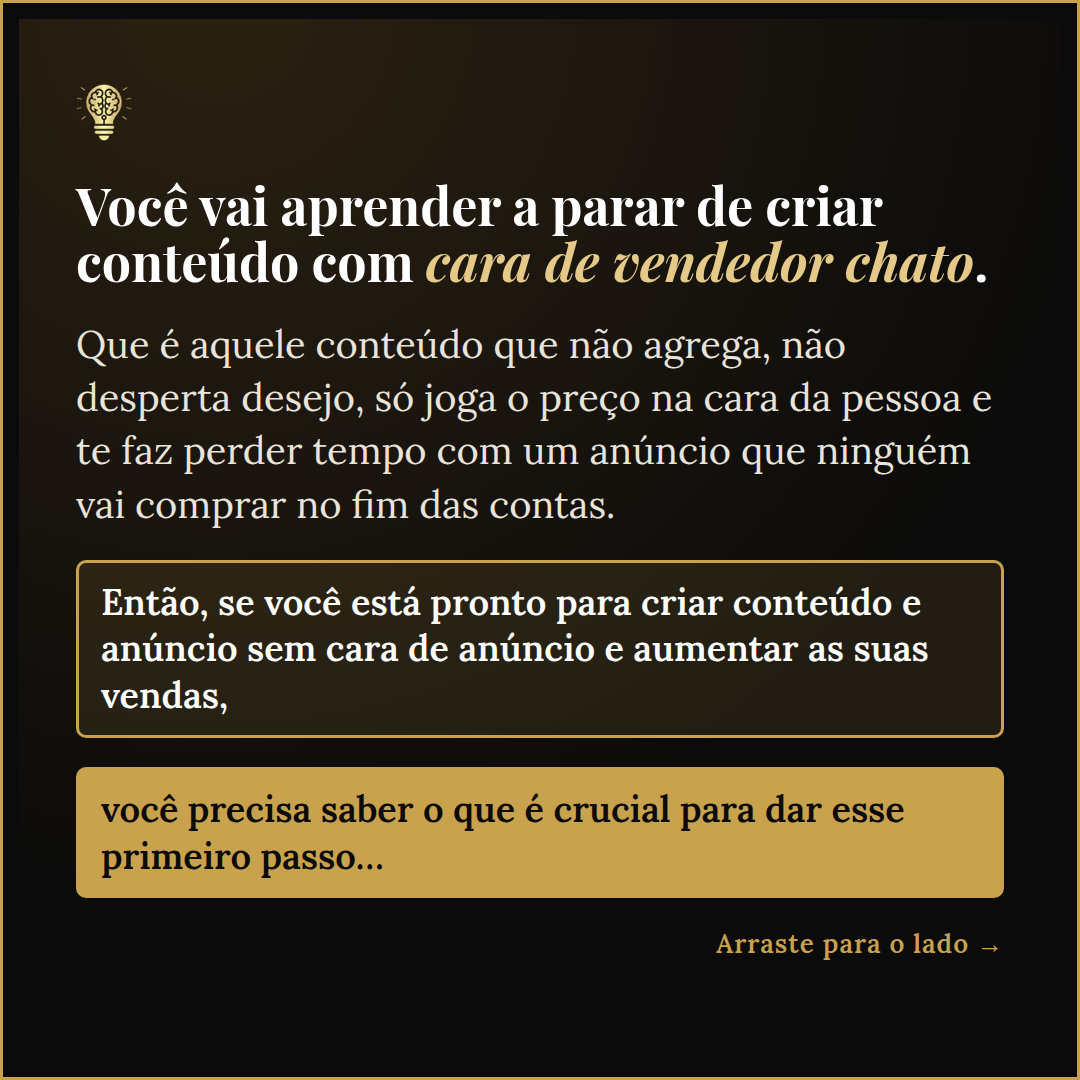
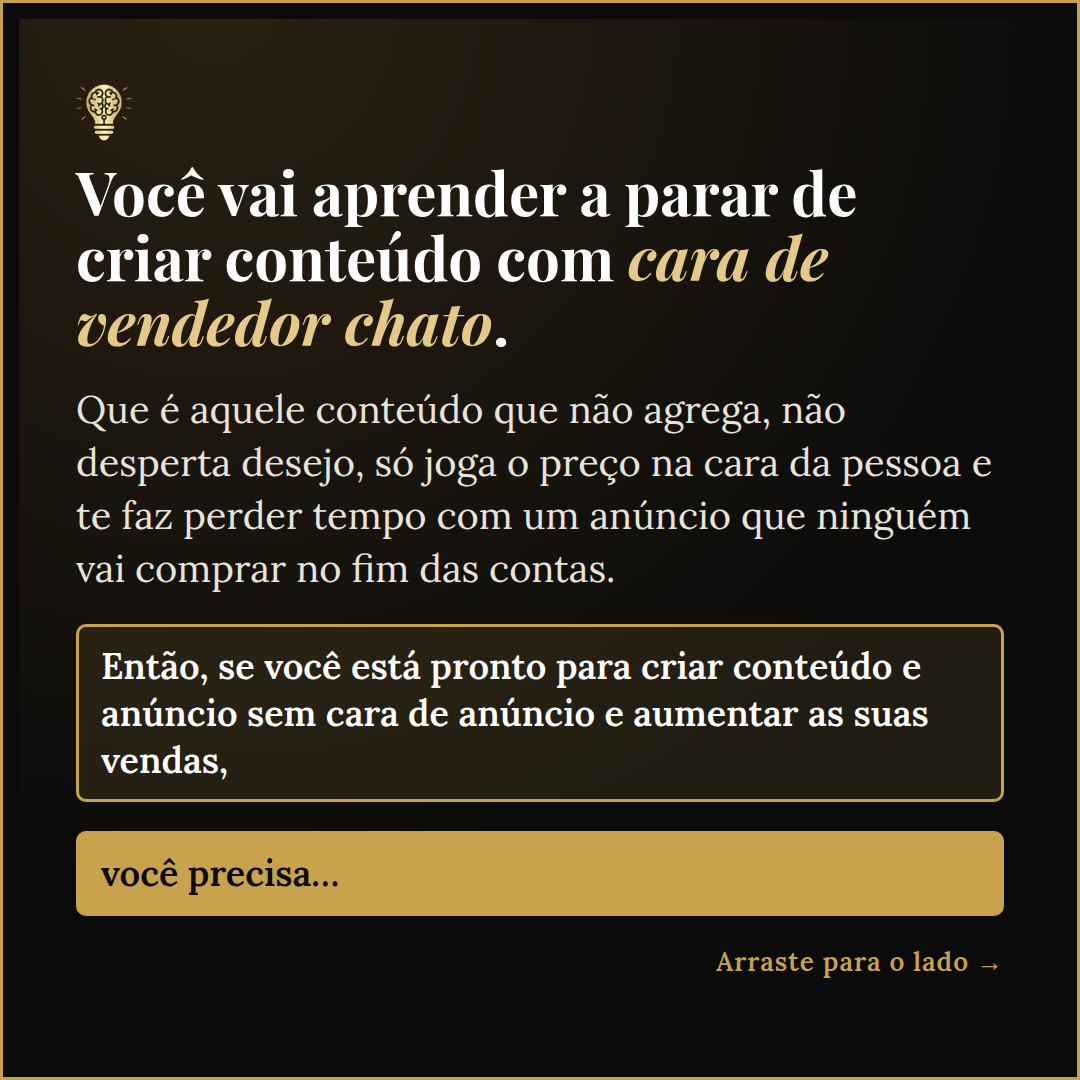
Carrossel Recria Ads: cards 4 e 5 se encadeiam (você precisa… / Aprender a criar…)
Claude-Session: https://claude.ai/code/session_01DxpPKgzfVt8WYQSkZW1Msu

Changed region(s): [[0.0611, 0.1528, 0.9472, 0.9167], [0.9167, 0.5194, 0.9472, 0.5806]]

diff --git a/recria/criativos-estaticos/gerar-recria-ads.js b/recria/criativos-estaticos/gerar-recria-ads.js
@@ -10,8 +10,8 @@ const ITEMS=[
 ["ads-2a-historia","","Se você tem um <em>negócio</em>, eu preciso te contar uma coisa que pode estar te fazendo perder dinheiro nesse exato momento.","Lá atrás, isso que eu vou te contar me fez quebrar dois negócios. Depois que eu descobri e consegui ajustar, tudo mudou…","","","seta1"],
 ["ads-2b-revelacao","","Percebeu? <em>Parabéns, você acabou de cair no anúncio.</em>","Eu retive a sua atenção, gerei identificação e fiz você arrastar para o lado para continuar lendo, mesmo sem me conhecer.||E sabe por quê?","","","seta"],
 ["ads-2c-porque","","Todo mundo pula anúncio <em>com cara de anúncio</em>, mas para por uma boa história.","Uma história bem amarrada aos interesses e desejos de quem lê. É a neurociência: o cérebro presta atenção no que fala dele, do que ele quer e do que o interessa.||E sabe qual é o ponto mais importante disso?","","","seta"],
-["ads-2d-gancho","","Você vai aprender a parar de criar conteúdo com <em>cara de vendedor chato</em>.","Que é aquele conteúdo que não agrega, não desperta desejo, só joga o preço na cara da pessoa e te faz perder tempo com um anúncio que ninguém vai comprar no fim das contas.||Então, se você está pronto para criar conteúdo e anúncio sem cara de anúncio e aumentar as suas vendas,||você precisa saber o que é crucial para dar esse primeiro passo…","","","seta"],
-["ads-2e-oferta","","E o seu próximo passo é conhecer o <em>Recria Ads</em>.","Para aprender a criar conteúdos e anúncios sem cara de anúncio, como as grandes marcas já fazem. Adaptado ao seu cenário e ao seu negócio, mesmo que você tenha baixo orçamento ou seja uma empresa pequena. Se interessou? Toque no botão para saber mais.","","Quero saber mais",""],
+["ads-2d-gancho","","Você vai aprender a parar de criar conteúdo com <em>cara de vendedor chato</em>.","Que é aquele conteúdo que não agrega, não desperta desejo, só joga o preço na cara da pessoa e te faz perder tempo com um anúncio que ninguém vai comprar no fim das contas.||Então, se você está pronto para criar conteúdo e anúncio sem cara de anúncio e aumentar as suas vendas,||você precisa…","","","seta"],
+["ads-2e-oferta","","Aprender a criar conteúdos e anúncios <em>sem cara de anúncio</em>, como as grandes marcas já fazem.","Adaptando para o seu cenário e para o seu negócio, mesmo que você tenha baixo orçamento ou seja uma empresa pequena. Para saber mais, toque no botão.","","Quero saber mais",""],
 ["ads-3-prova","Recria Ads","Aprenda a criar conteúdos que <em>atraem, engajam e vendem</em>. Com leveza.","Olha esse carrossel do meu perfil de yoga: atraí as pessoas, elas se identificaram e comentaram “eu quero”. No direct, continuei a conversa com a oferta do meu curso e vendi. Tudo configurado de forma automatizada. Você também quer aprender?","","Quero saber mais","prova"]
 ];
 function css(f){return `
